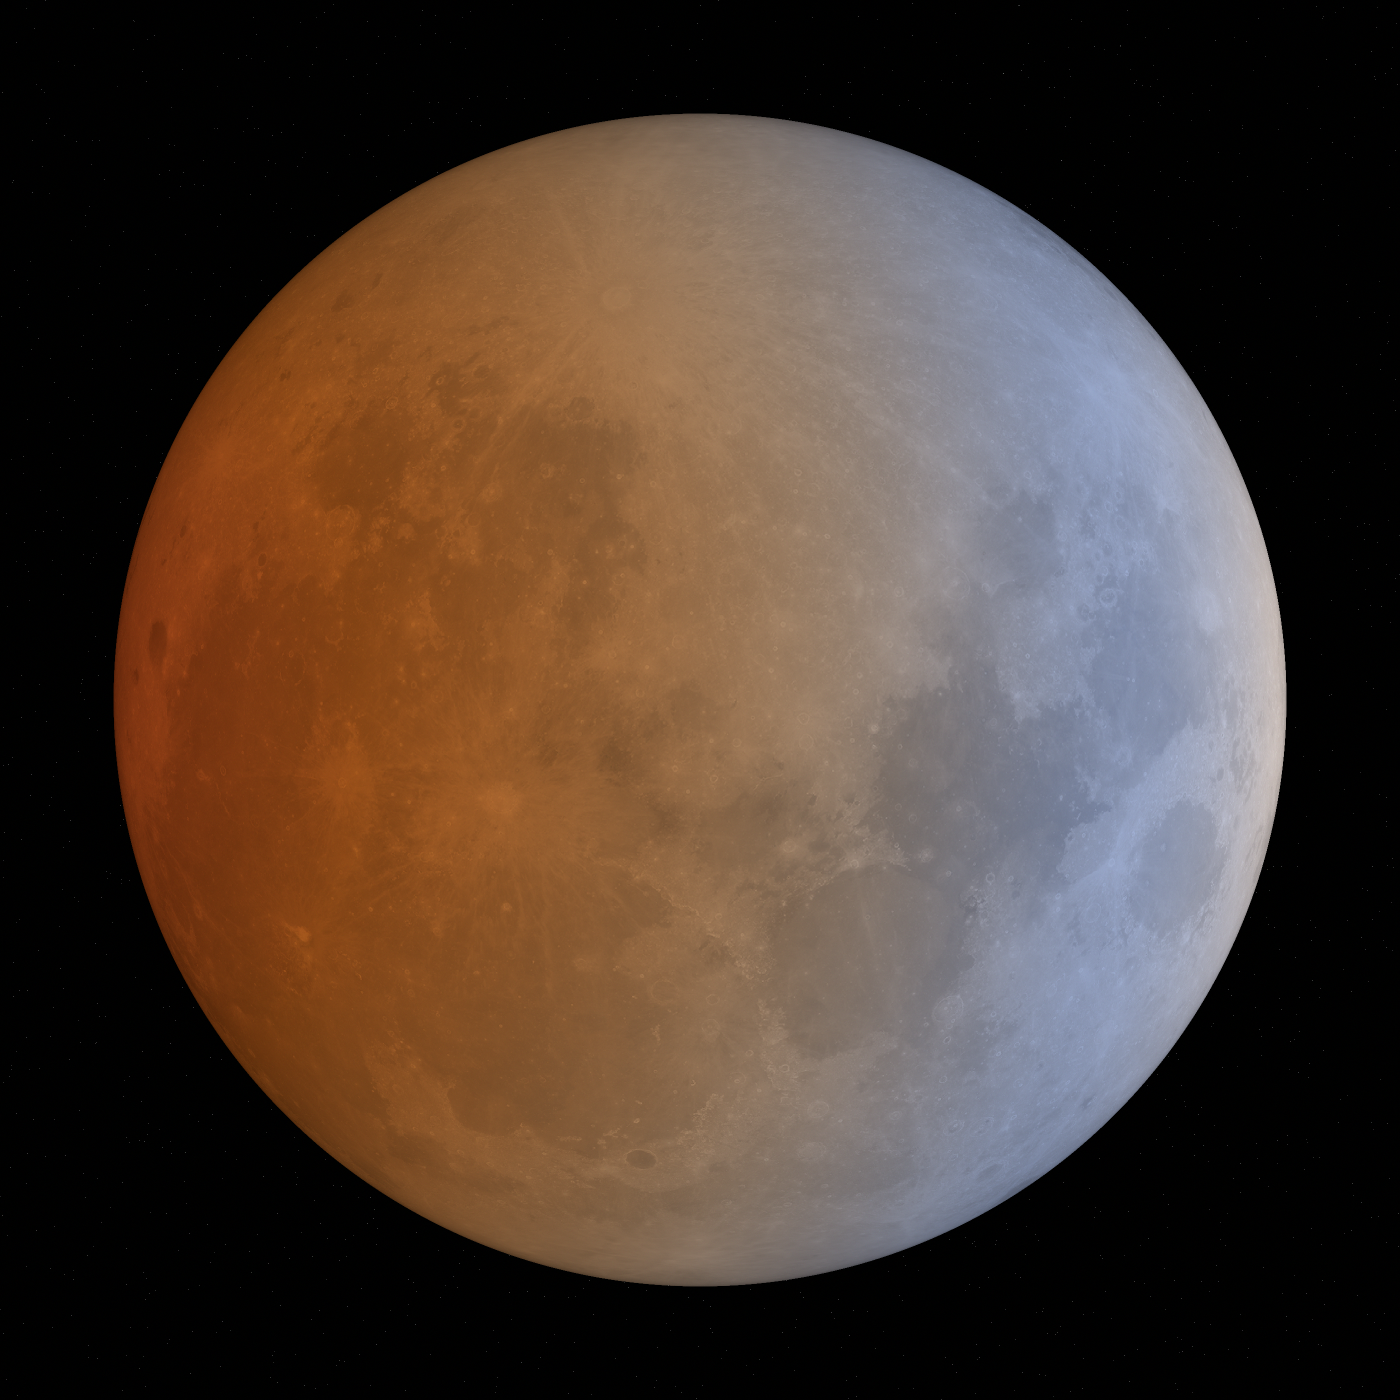
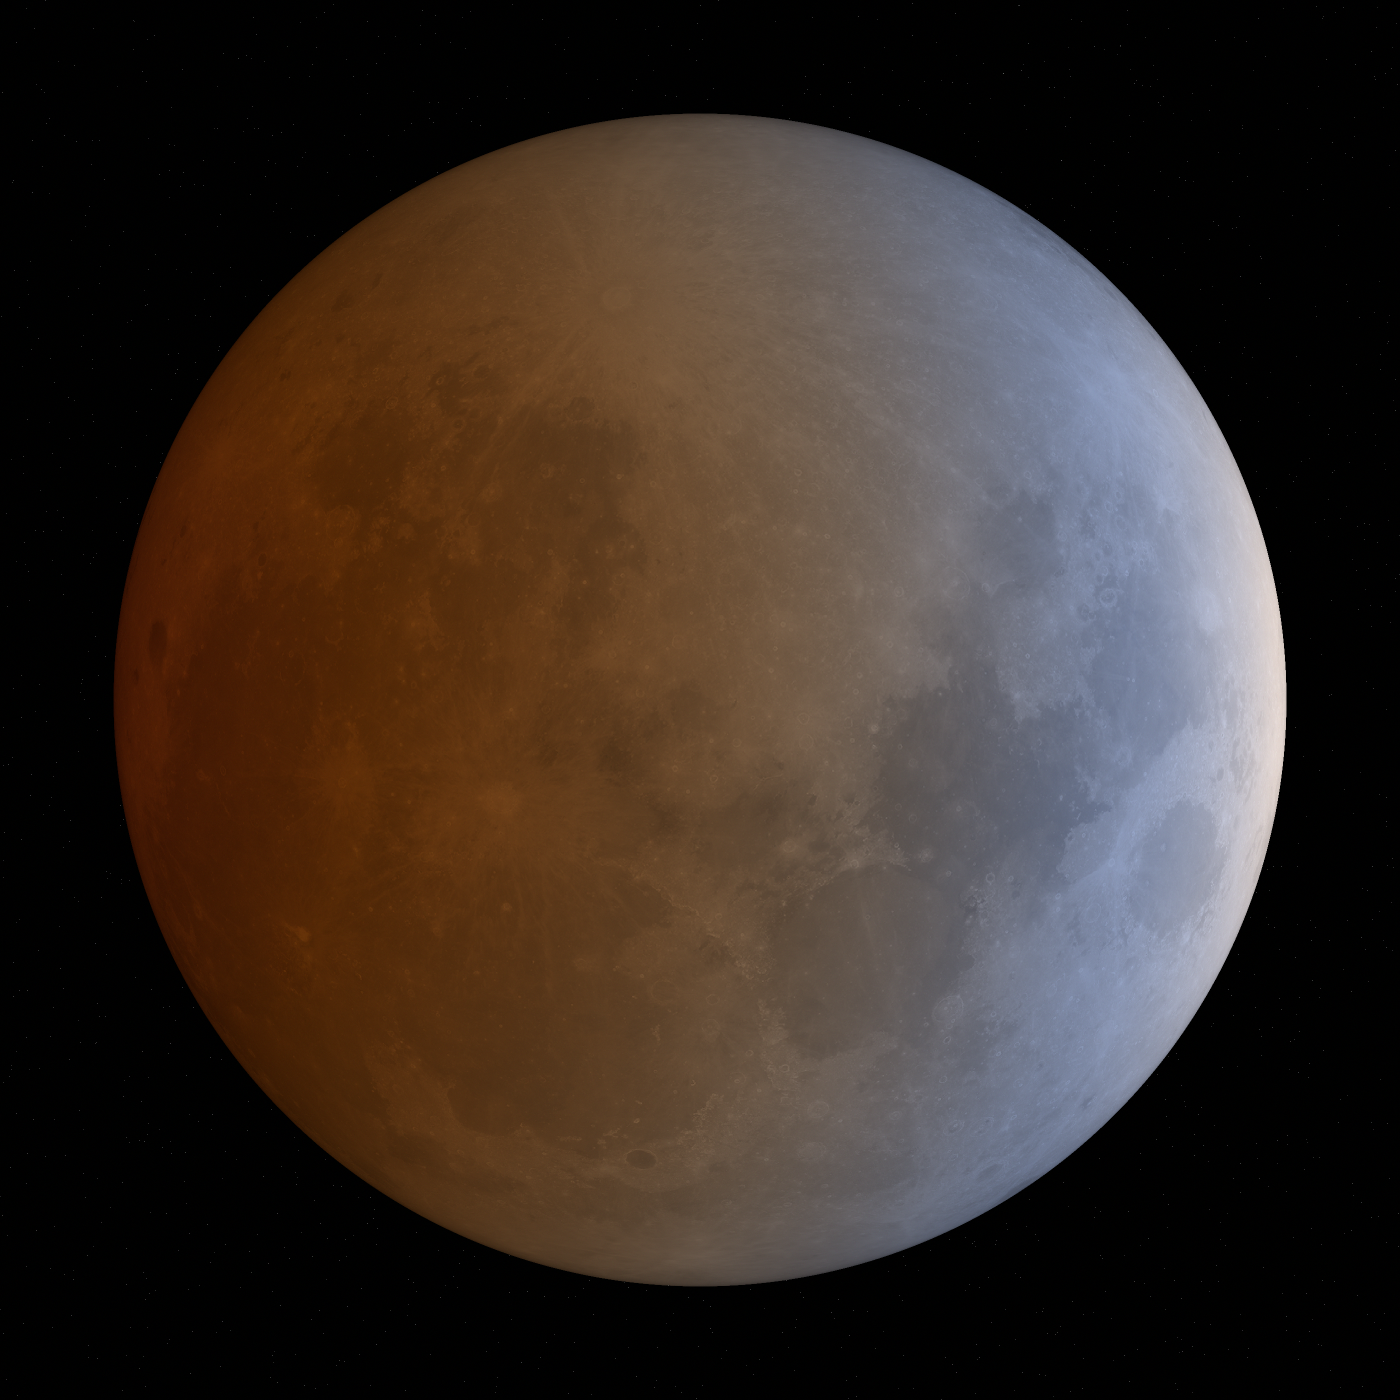
影调微调: 恢复动态范围, 红核回深铜红
诊断: 初版亮度梯度被红核曝光目标锁死(2.8×), 月盘看着亮度差不多、
浅色泛滥让绿松石带显得占1/3. 关键控制点是 target_srgb 不是 dyn_gamma.
调 target_srgb 0.42→0.24(红核深铜红) + dyn_gamma 0.42→0.7,
远/近亮度比升到4.8×(真实3:1~5:1中段), 红核占盘面大部分、青绿白退回边缘窄带.

diff --git a/src/render_textured.py b/src/render_textured.py
@@ -131,8 +131,8 @@ def sample_albedo_orthographic(alb_tex, U, V, inside,
 # ============================================================
 def render_realistic_disk(d_arcmin=26.0, size=1400, margin_arcmin=3.0, ssaa=2,
                           sub_lat_deg=0.0, sub_lon_deg=0.0,
-                          limb_power=0.5, target_srgb=0.42,
-                          dyn_gamma=0.42, chroma_weight=0.5, saturation=0.92,
+                          limb_power=0.5, target_srgb=0.24,
+                          dyn_gamma=0.7, chroma_weight=0.5, saturation=0.95,
                           add_starfield=True, add_grain=True,
                           lut_kwargs=None, seed=7):
     """渲染写实月全食照片：真实月面反照率纹理 × 物理食光颜色。

diff --git a/docs/working.md b/docs/working.md
@@ -33,6 +33,10 @@
   摄影成品压到视觉 1.5-2.5 档(3:1~5:1)。修法：tone-map 前对物理亮度做幂律压缩
   (dyn_gamma=0.42) 收窄动态范围，色相不动；曝光更柔和、饱和度往铜橙收(0.92)、
   叠真实月面色偏(权重0.5)。月盘平均亮度落中调，红→白过渡自然，不再一侧死黑。
+- 影调微调：初版 dyn_gamma=0.42 压过头，月盘亮度太平、浅色泛滥显得绿松石带占1/3。
+  诊断：梯度被"红核曝光目标"锁死，关键控制点是 target_srgb 而非 dyn_gamma。
+  调 target_srgb 0.42→0.24 让红核回深铜红(sRGB lum~51)、dyn_gamma 0.42→0.7，
+  远/近亮度比 2.8×→4.8×(真实3:1~5:1中段)，红核占盘面大部分、青绿白退回边缘窄带。
 
 ## Lessons Learned
 